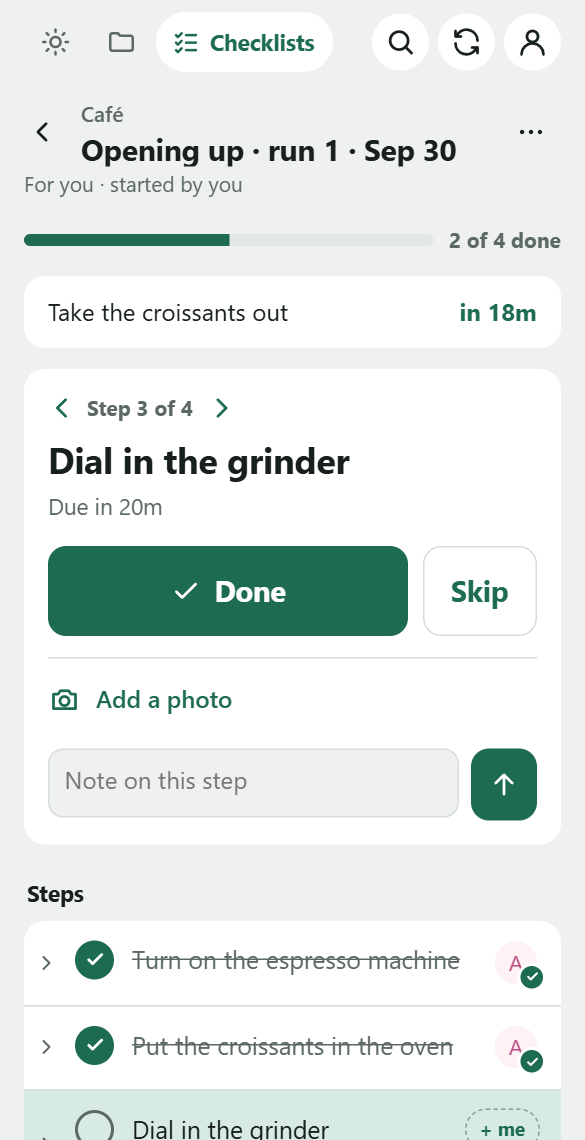
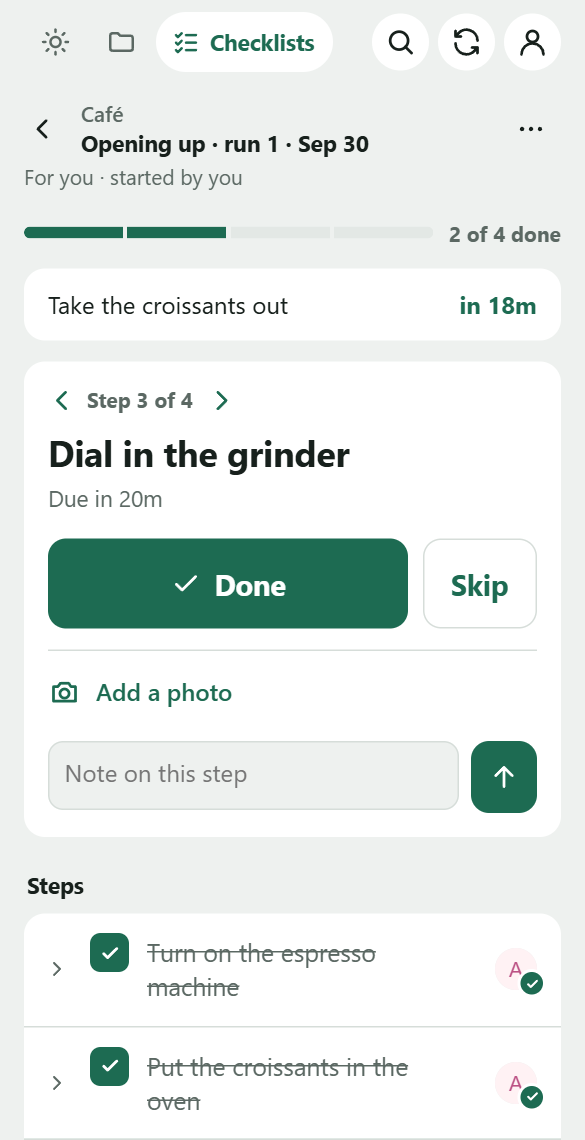
docs: the README's pictures made again for Today's cards, ticks that stay and leave together, and square run steps
The tasks GIF opens on a card's next step and pages it with ›, adds a task, slides one nobody has so it becomes
Alex's, and ticks one that stays in place then leaves 3 seconds later. The coffee roaster's invoice is due tomorrow,
to leave room on screen. The alt texts say what the pictures now show, and no longer that timed steps count down,
which a fixed clock doesn't show.

diff --git a/README.md b/README.md
@@ -11,8 +11,8 @@ like opening up and closing down, into checklists that you and your team tick of
     <th>Checklists</th>
   </tr>
   <tr>
-    <td><img src="docs/screenshots/pocket-demo.gif" width="280" alt="Typing 'Order 6 bags of house blend at 4 +orders !3' highlights the words Pocket reads, chips show Orders, Today 4:00 PM and Priority 3, and the task appears under Today. Then a finger holds 'Post next week's rota' and slides it, stopping at 25% and then 50%, taps '+ me' on it so Alex's picture takes its place, and ticks off 'Pick up change from the bank', whose row becomes a line, 'Done: Pick up change from the bank', with Undo."></td>
-    <td><img src="docs/screenshots/pocket-checklist.gif" width="280" alt="Starting the café's Opening up checklist, which says it's started, with an Undo. Once the espresso machine is on and the croissants are in, 'Dial in the grinder' and 'Take the croissants out' count down, pinned at the top."></td>
+    <td><img src="docs/screenshots/pocket-demo.gif" width="280" alt="Today, with 'Order oat milk from Riverside Dairy' overdue as a card showing its next step, 'Ask about the October price', 2 of 3; › pages it on to 'Set up the standing order', 3 of 3. Typing 'Order 6 bags of house blend at 4 +orders !3' highlights the words Pocket reads, chips show Orders, Today 4:00 PM and Priority 3, and the task appears under Today. Then a finger holds 'Post next week's rota' and slides it: its '+ me' turns into Alex's A as the slide starts, and it stops at 25% and then 50%. Last, 'Pick up change from the bank' is ticked: it stays where it is, ticked and struck through, and leaves 3 seconds later, the rows below closing up."></td>
+    <td><img src="docs/screenshots/pocket-checklist.gif" width="280" alt="Starting the café's Opening up checklist, which says it's started, with an Undo; its steps have square boxes, and its line has a segment for each step. Once the espresso machine is on and the croissants are in, two segments are filled, 'Dial in the grinder' is due in 20 minutes, and 'Take the croissants out', due in 18, is pinned at the top."></td>
   </tr>
 </table>
 
@@ -31,7 +31,7 @@ ones you ticked leave together a few seconds later; tick it again to take it bac
 say how far along it is. Today is for doing, so nothing is deleted or moved there: on a project's list, swipe a task
 left to delete it, and its place stays as a gap with **Restore** until the gap closes.
 
-<img src="docs/screenshots/pocket-today.png" width="300" alt="Pocket's Today: 'Order oat milk from Riverside Dairy' overdue, 'Call the plumber about the dishwasher' (Priya's, her picture at its end), 'Post next week's rota' and 'Pick up change from the bank' due today, each other row with '+ me' at its end, and the café's week ahead">
+<img src="docs/screenshots/pocket-today.png" width="300" alt="Pocket's Today: 'Order oat milk from Riverside Dairy' overdue, a card showing its next step, 'Ask about the October price', 2 of 3, on a line in three segments; 'Call the plumber about the dishwasher' (Priya's, her picture at its end), 'Post next week's rota' and 'Pick up change from the bank' due today, each other row with '+ me' at its end; and the café's week ahead">
 
 ## Hand it off
 
@@ -48,7 +48,7 @@ Write the steps once, as a template: "Turn on the espresso machine", "Put the cr
 croissants out in 18 min". Then start a run each morning, for yourself or someone on shift, and work through it one
 step at a time, with a note or a photo where it helps. Timed steps count down, and everyone sees who did what.
 
-<img src="docs/screenshots/pocket-run.png" width="300" alt="A run of Opening up, 2 of 4 steps done: 'Dial in the grinder' is due in 20 minutes, and 'Take the croissants out' counts down above it">
+<img src="docs/screenshots/pocket-run.png" width="300" alt="A run of Opening up, 2 of 4 steps done, two of its line's four segments filled: 'Dial in the grinder' is due in 20 minutes, 'Take the croissants out', due in 18, is pinned above it, and the two steps done are ticked in their square boxes">
 
 Pocket works offline, and keeps whatever you're writing until it's sent. It follows the phone's light or dark mode.
 Timers ring while Pocket is open; reminders arrive by email when it's closed, so the server needs mail set up (see

diff --git a/docs/guide.md b/docs/guide.md
@@ -291,7 +291,7 @@ Vikunja tells the task's creator (for a step, whoever started the run) when you 
 Checklists are the things done the same way again and again: opening up, closing down, a delivery check. Each start of
 one is a run, with who did each step and when. They're ordinary Vikunja projects and tasks.
 
-<p align="center"><img src="screenshots/pocket-checklist.gif" width="300" alt="Starting a run of the café's Opening up template. Once the espresso machine is on and the croissants are in, 'Dial in the grinder' and 'Take the croissants out' count down, pinned at the top."></p>
+<p align="center"><img src="screenshots/pocket-checklist.gif" width="300" alt="Starting a run of the café's Opening up template: its steps have square boxes, and its line a segment for each step. Once the espresso machine is on and the croissants are in, 'Dial in the grinder' is due in 20 minutes, and 'Take the croissants out', due in 18, is pinned at the top."></p>
 
 1. **Use a project for checklists.** Under Projects, **Set up checklists** makes a project called Checklists with an
    example template to try, "Example: Opening up": start it, then change it into your own or delete it. Or open a
@@ -483,7 +483,7 @@ and right away without a connection. If Vikunja turns it down, it goes back as i
 
 Pocket opens without a connection and shows your lists as they were last loaded.
 
-<img src="screenshots/pocket-offline.png" width="320" alt="Pocket offline: a banner saying what's sent once back online, and 'Buy till receipt rolls' tinted under Today, waiting to be sent">
+<img src="screenshots/pocket-offline.png" width="320" alt="Pocket offline: a banner saying that ticking off or changing tasks needs a connection, except on a run, and 'Buy till receipt rolls' tinted under Today, waiting to be sent">
 
 - **What works offline:** new tasks and subtasks, comments, and what you do in a checklist run. A task waiting to be
   sent has a light tint and a dashed circle (online, once it has waited a few seconds); its × cancels it and puts its
